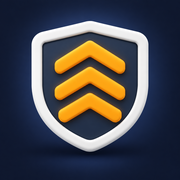
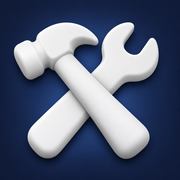
chore(arsenal): ícone do PWA do Arsenal (martelo e chave), só neste checkout
Identidade da máquina: não sobe para a main. O resto do antigo notebook-local
já está na main (backup em backup/notebook-local-20261108).

diff --git a/apps/cockpit/app/layout.tsx b/apps/cockpit/app/layout.tsx
@@ -25,7 +25,7 @@ export const metadata: Metadata = {
   // com página mínima, PNG de outro site e ícone em host público; só o
   // embutido apareceu.
   icons: {
-    icon: [{ url: '/icon-192.png', sizes: '192x192', type: 'image/png' }],
+    icon: [{ url: '/icon-192.png?v=2', sizes: '192x192', type: 'image/png' }],
     apple: [{ url: APPLE_TOUCH_ICON, sizes: '180x180', type: 'image/png' }],
   },
   appleWebApp: {
